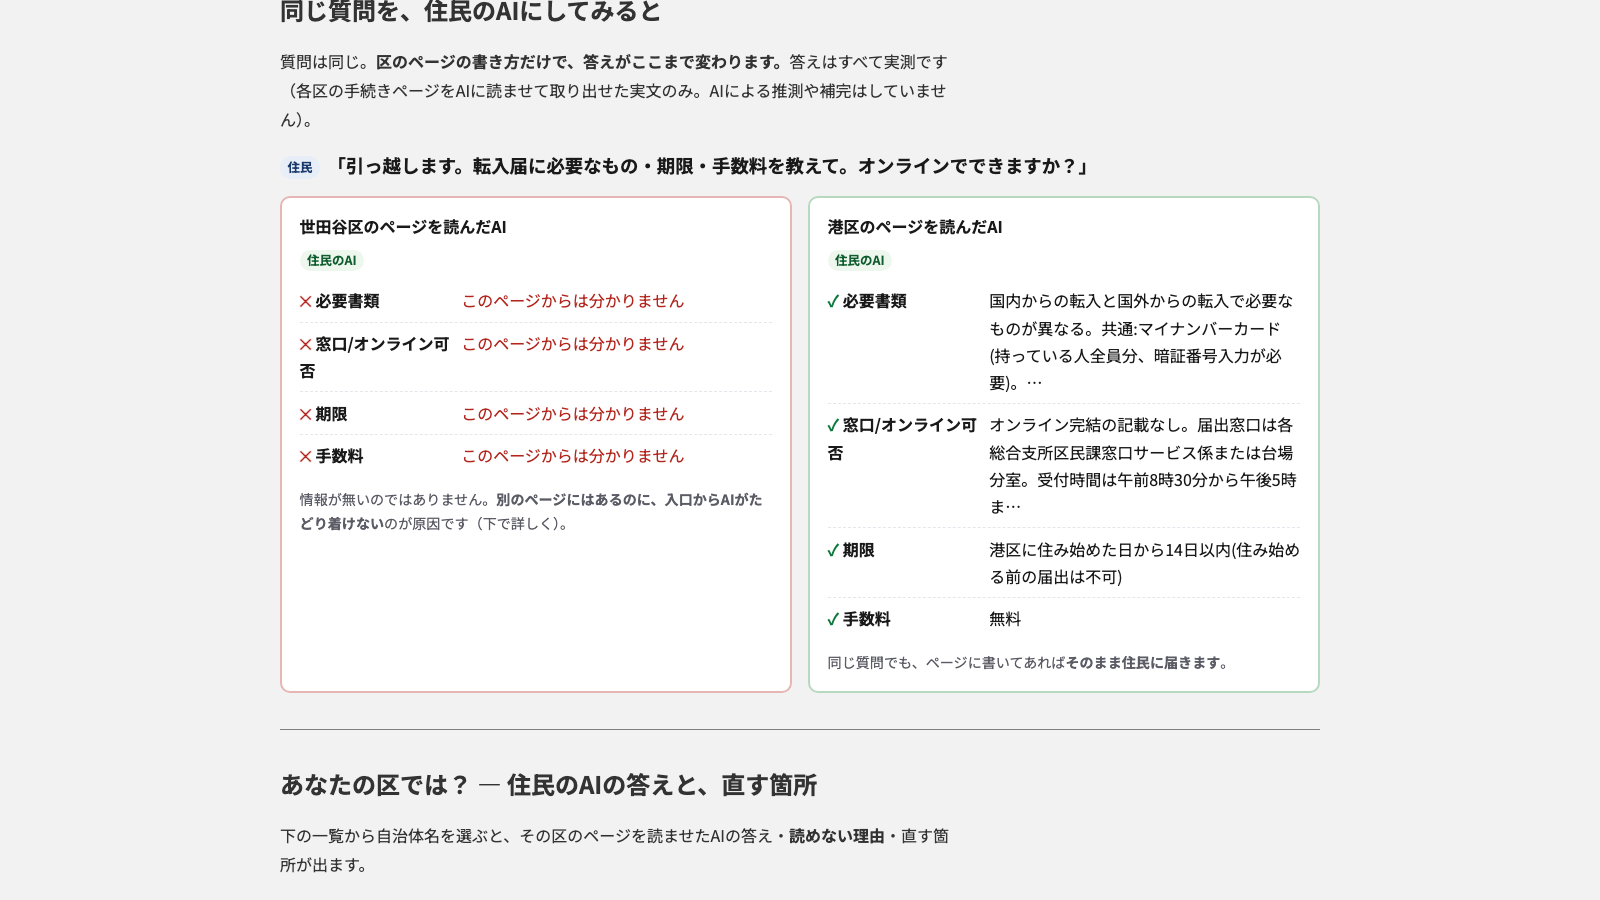
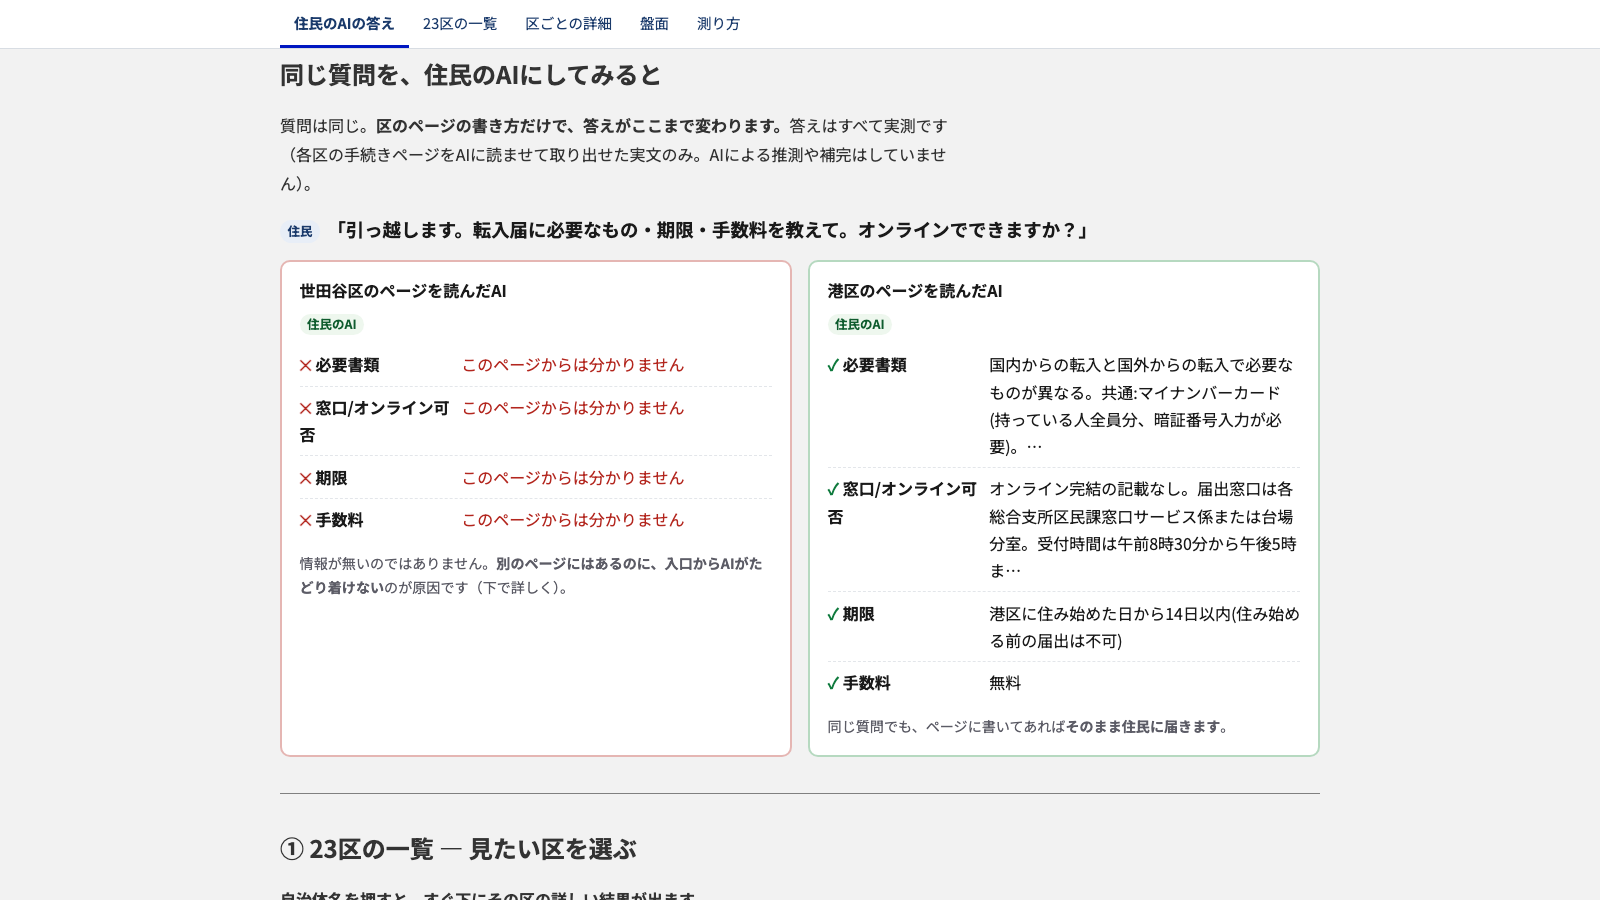
画面: どこに何があるか分かるように直す
「UI/UXが悪い、どこに何があるか本当にわからない」への対応。原因は3つ:

1. ナビゲーションが無かった。2ページあるのに行き来する手段が本文中のリンクだけで、
   盤面へのリンクは5画面中4画面目に埋もれていた
   → 両ページの上部に固定の案内バー（現在地つき）を置いた
2. 順番が逆行していた。詳細(1284px)が先で、選ぶための一覧(2538px)が後。
   一覧を押すと上に戻る動きだった
   → ①23区の一覧で選ぶ → ②選んだ区の結果、の順に入れ替えて番号を振った
3. 通知バナーがH2で、見出しの並びが意味不明になっていた
   → pに変更（DADSのCSSはクラスで効くので見た目は同一。vendorの原本で確認）

あわせて、飛び先の見出しが固定バーの下に隠れる問題も修正（scroll-margin-top、
区を選んだときの移動先も見出しへ）。

提出用キャプチャ03（ダッシュボード）はレイアウトが変わったので撮り直した。

Changed region(s): [[0.1562, 0.0, 0.8125, 1.0], [0.1875, 0.6222, 0.4688, 0.6844], [0.5, 0.56, 0.5625, 0.6222]]

diff --git a/web/index.html b/web/index.html
@@ -28,16 +28,26 @@
   </div>
 </header>
 
+<nav class="site-nav" aria-label="ページ内の案内">
+  <ul class="wrap site-nav__list">
+    <li><a href="index.html" aria-current="page">住民のAIの答え</a></li>
+    <li><a href="#ranking-heading">23区の一覧</a></li>
+    <li><a href="#detail-heading">区ごとの詳細</a></li>
+    <li><a href="board.html">盤面</a></li>
+    <li><a href="#method-heading">測り方</a></li>
+  </ul>
+</nav>
+
 <main class="wrap" id="main">
 
   <div class="dads-notification-banner" data-style="standard" data-type="info" role="note">
-    <h2 class="dads-notification-banner__heading">
+    <p class="dads-notification-banner__heading">
       <svg class="dads-notification-banner__icon" width="24" height="24" viewBox="0 0 24 24" role="img" aria-label="情報">
         <path d="M12 22a10 10 0 1 1 0-20 10 10 0 0 1 0 20Z" fill="currentcolor"/>
         <path d="M11 17h2v-6h-2v6Zm0-8h2V7h-2v2Z" fill="Canvas"/>
       </svg>
       <span class="dads-notification-banner__heading-text" id="phase-note">読み込み中</span>
-    </h2>
+    </p>
     <div class="dads-notification-banner__body">
       <p>これは個人が行った第三者調査であり、行政機関の公式発表ではありません。順位をつけることが目的ではなく、<strong>どこを直せば住民のAIから読めるようになるか</strong>を示すための調査です。</p>
     </div>
@@ -51,17 +61,10 @@
 
   <hr class="dads-divider">
 
-  <section aria-labelledby="detail-heading">
-    <h2 class="dads-heading" data-size="l" id="detail-heading">あなたの区では？ — 住民のAIの答えと、直す箇所</h2>
-    <p class="section-note">下の一覧から自治体名を選ぶと、その区のページを読ませたAIの答え・<strong>読めない理由</strong>・直す箇所が出ます。</p>
-    <div id="detail" aria-live="polite"></div>
-  </section>
-
-  <hr class="dads-divider">
-
   <section aria-labelledby="ranking-heading">
-    <h2 class="dads-heading" data-size="l" id="ranking-heading">23区の一覧</h2>
-    <p class="section-note">✓＝住民のAIに伝わる／✕＝伝わらない（4項目＋オンライン明示）。合計点は参考値です（AI判定のため±2点の測定誤差。2点差以内は同順位帯として見てください）。</p>
+    <h2 class="dads-heading" data-size="l" id="ranking-heading">① 23区の一覧 — 見たい区を選ぶ</h2>
+    <p class="section-note"><strong>自治体名を押すと、すぐ下にその区の詳しい結果が出ます。</strong><br>
+      ✓＝住民のAIに伝わる／✕＝伝わらない（4項目＋オンライン明示）。合計点は参考値です（AI判定のため±2点の測定誤差。2点差以内は同順位帯として見てください）。</p>
     <div class="dads-table" data-size="dense">
       <table class="dads-table__table" id="ranking">
         <caption class="dads-table__caption">AI判読度（<span id="proc-name"></span>）</caption>
@@ -81,6 +84,16 @@
       </table>
     </div>
   </section>
+
+  <hr class="dads-divider">
+
+  <section aria-labelledby="detail-heading">
+    <h2 class="dads-heading" data-size="l" id="detail-heading">② 選んだ区の結果 — 住民のAIの答えと、直す箇所</h2>
+    <p class="section-note">上の一覧で選んだ区について、そのページを読ませたAIの答え・<strong>読めない理由</strong>・直す箇所が出ます。</p>
+    <div id="detail" aria-live="polite"></div>
+  </section>
+
+  <hr class="dads-divider">
 
   <section aria-labelledby="summary-heading">
     <h2 class="dads-heading" data-size="l" id="summary-heading">全体の数字</h2>

diff --git a/web/board.html b/web/board.html
@@ -26,20 +26,29 @@
     <p class="site-header__lead"><strong>住民のAIに、どこまで答えが届いているか。</strong><br>
       東京23区 × 手続き のマス目です。実際にAIに読ませて確かめたところだけ色がつきます。<br>
       <strong>グレーは「まだ調べていない」。</strong>塗りつぶすには人の手が要ります。</p>
-    <p class="site-header__nav"><a class="dads-link" href="index.html">← 住民のAIの答えを見る（トップ）</a></p>
   </div>
 </header>
+
+<nav class="site-nav" aria-label="ページ内の案内">
+  <ul class="wrap site-nav__list">
+    <li><a href="index.html">住民のAIの答え</a></li>
+    <li><a href="index.html#ranking-heading">23区の一覧</a></li>
+    <li><a href="index.html#detail-heading">区ごとの詳細</a></li>
+    <li><a href="board.html" aria-current="page">盤面</a></li>
+    <li><a href="index.html#method-heading">測り方</a></li>
+  </ul>
+</nav>
 
 <main class="wrap" id="main">
 
   <div class="dads-notification-banner" data-style="standard" data-type="info" role="note">
-    <h2 class="dads-notification-banner__heading">
+    <p class="dads-notification-banner__heading">
       <svg class="dads-notification-banner__icon" width="24" height="24" viewBox="0 0 24 24" role="img" aria-label="情報">
         <path d="M12 22a10 10 0 1 1 0-20 10 10 0 0 1 0 20Z" fill="currentcolor"/>
         <path d="M11 17h2v-6h-2v6Zm0-8h2V7h-2v2Z" fill="Canvas"/>
       </svg>
       <span class="dads-notification-banner__heading-text">色がついているのは、実際にAIに読ませて確かめたマスだけです</span>
-    </h2>
+    </p>
     <div class="dads-notification-banner__body">
       <p>これは個人が行った第三者調査であり、行政機関の公式発表ではありません。<strong>グレーのマスは「読めない」ではなく「まだ調べていない」</strong>という意味です。憶測では塗りません。</p>
     </div>

diff --git a/web/assets/app.css b/web/assets/app.css
@@ -41,6 +41,50 @@ body {
   color: var(--color-primitive-blue-50);
 }
 
+/* --- ページ内の案内（どこに何があるかを常に出しておく） --- */
+
+.site-nav {
+  position: sticky;
+  top: 0;
+  z-index: 20;
+  background: #fff;
+  border-bottom: 1px solid #d8dde3;
+  margin-bottom: calc(20 / 16 * 1rem);
+}
+
+.site-nav__list {
+  display: flex;
+  flex-wrap: wrap;
+  gap: 0;
+  list-style: none;
+  margin: 0 auto;
+  padding-block: 0;
+}
+
+.site-nav__list a {
+  display: block;
+  padding: calc(12 / 16 * 1rem) calc(14 / 16 * 1rem);
+  color: #1a3a6b;
+  text-decoration: none;
+  font-size: calc(14.5 / 16 * 1rem);
+  border-bottom: 3px solid transparent;
+}
+
+.site-nav__list a:hover { background: #f2f6fc; text-decoration: underline; }
+
+.site-nav__list a[aria-current="page"] {
+  font-weight: 700;
+  border-bottom-color: var(--color-primitive-blue-900, #0056b3);
+}
+
+@media (max-width: 600px) {
+  .site-nav { position: static; }
+  .site-nav__list a { padding: calc(10 / 16 * 1rem) calc(10 / 16 * 1rem); font-size: calc(13.5 / 16 * 1rem); }
+}
+
+/* 案内バーが固定なので、飛び先の見出しがその下に隠れないよう余白をとる */
+main [id] { scroll-margin-top: calc(64 / 16 * 1rem); }
+
 /* --- 本文 --- */
 
 main section {

diff --git a/web/assets/app.js b/web/assets/app.js
@@ -108,7 +108,8 @@ function renderRanking() {
     const b = e.target.closest('button[data-id]');
     if (b) {
       select(b.dataset.id);
-      $('detail').scrollIntoView({ behavior: 'smooth', block: 'start' });
+      // 見出しごと画面に入れる。結果だけ出ても「どこを見ているか」が分からなくなるため
+      $('detail-heading').scrollIntoView({ behavior: 'smooth', block: 'start' });
     }
   });
 }
